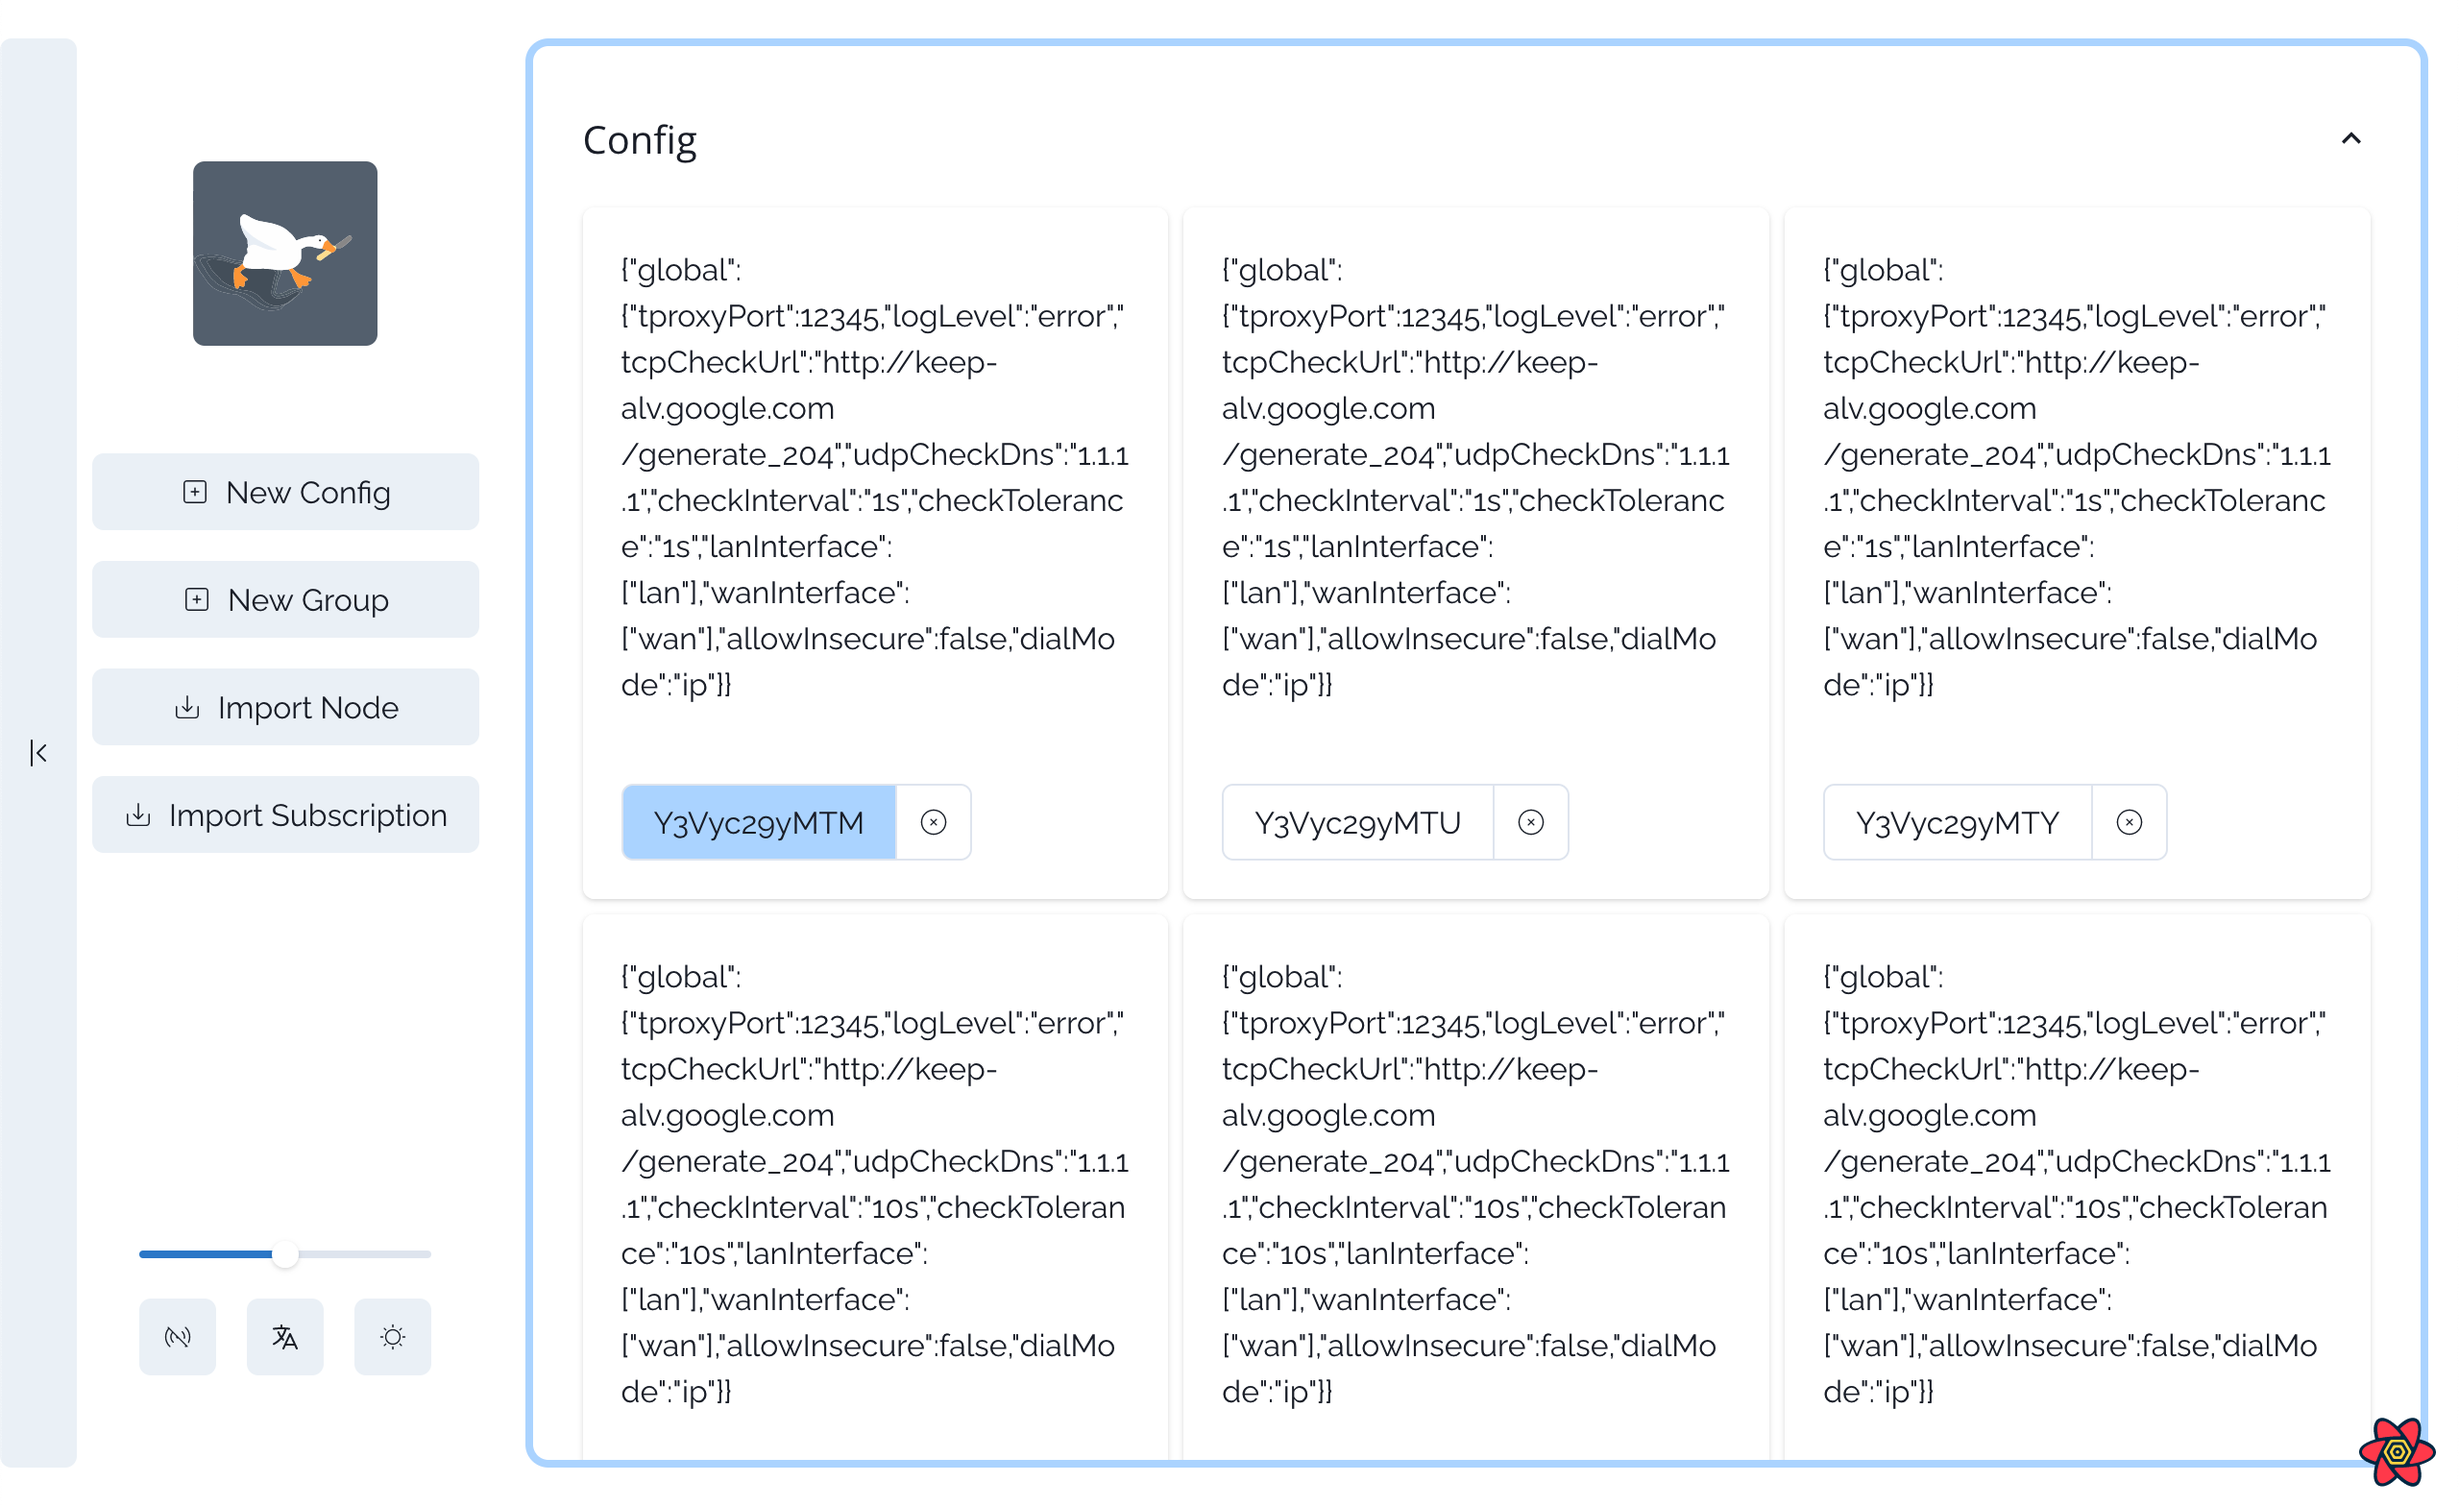
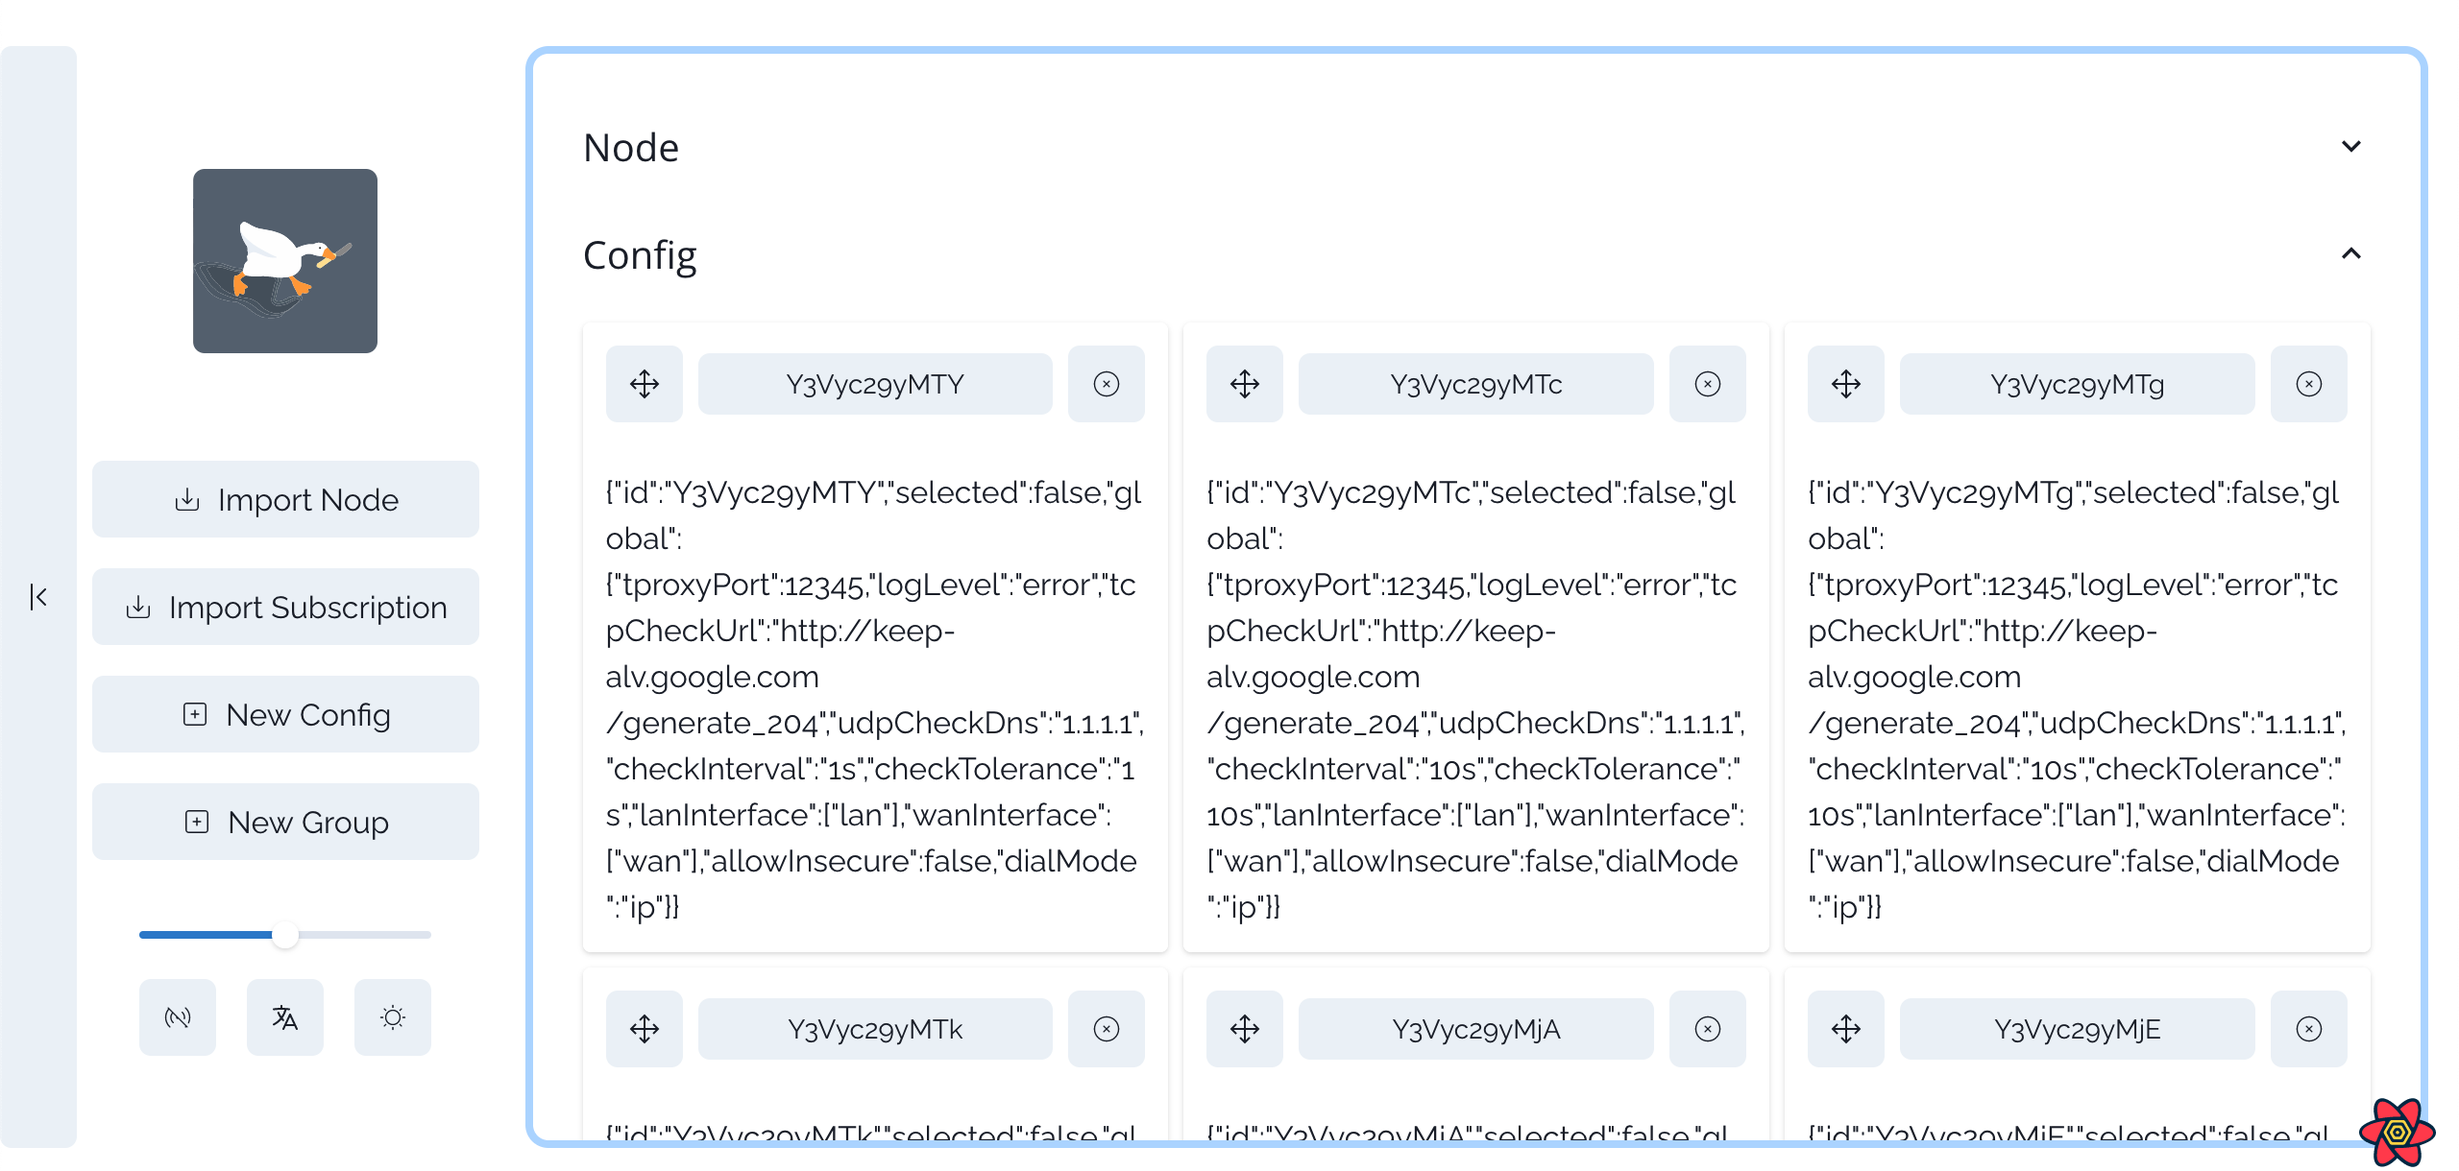
docs: update preview.png

diff --git a/src/Home.tsx b/src/Home.tsx
@@ -153,7 +153,7 @@ export default () => {
           borderColor: "Highlight",
         }}
       >
-        <Accordion defaultIndex={[0]} allowMultiple>
+        <Accordion allowToggle>
           <AccordionItem border="none">
             <AccordionButton p={4}>
               <Flex w="full" alignItems="center" justifyContent="space-between">
